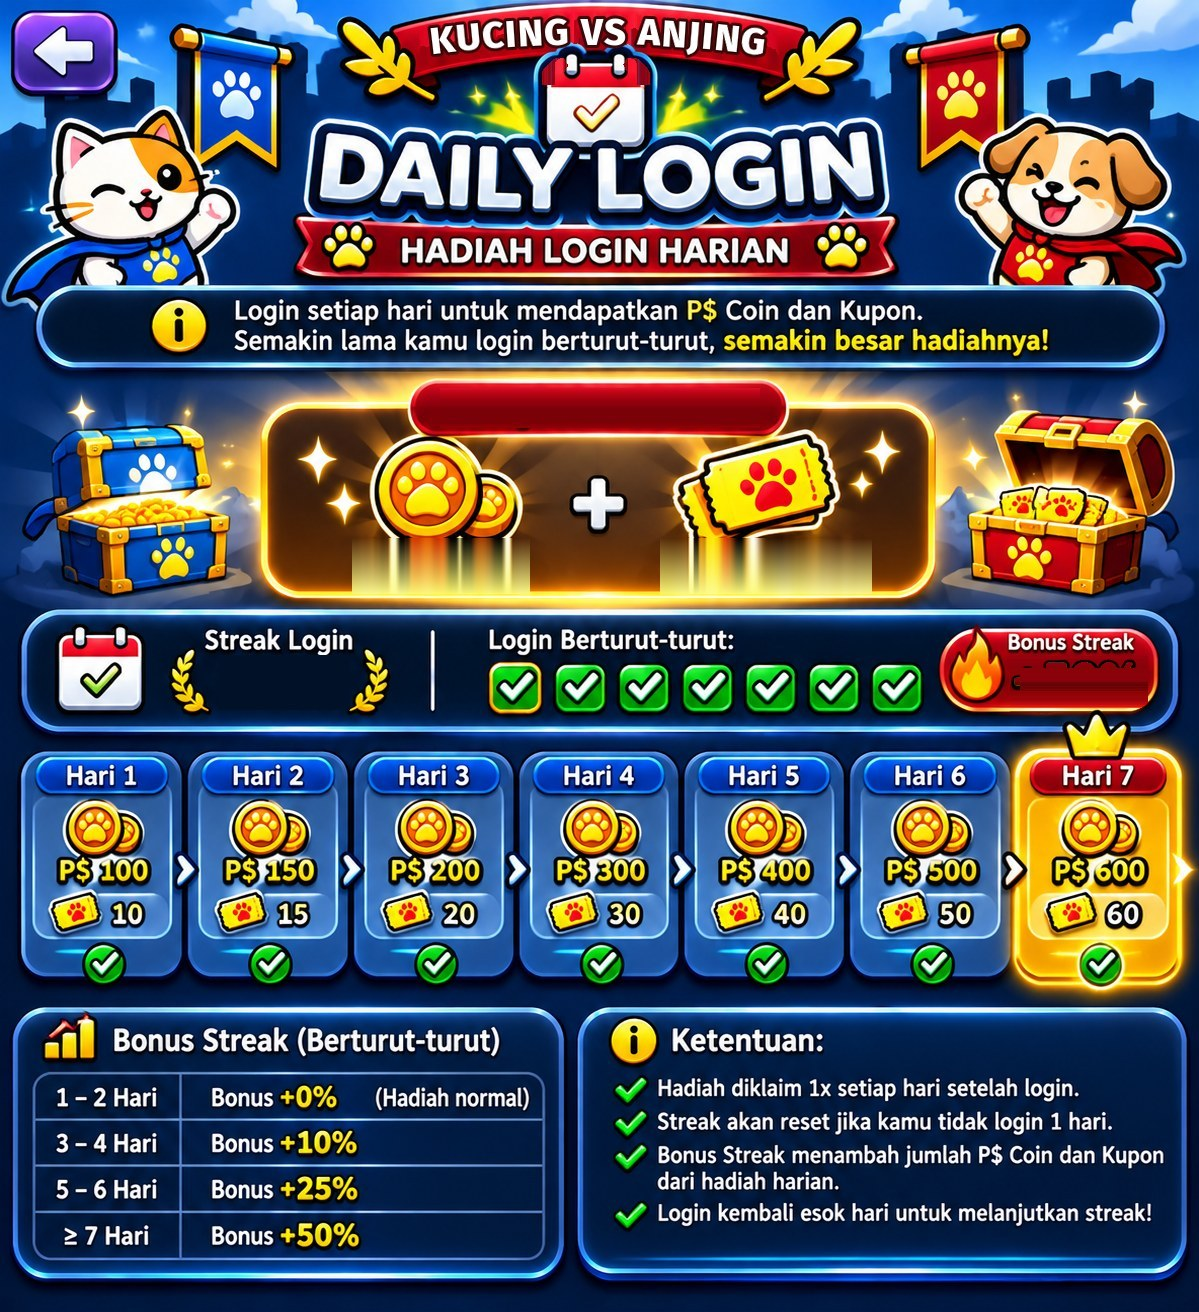
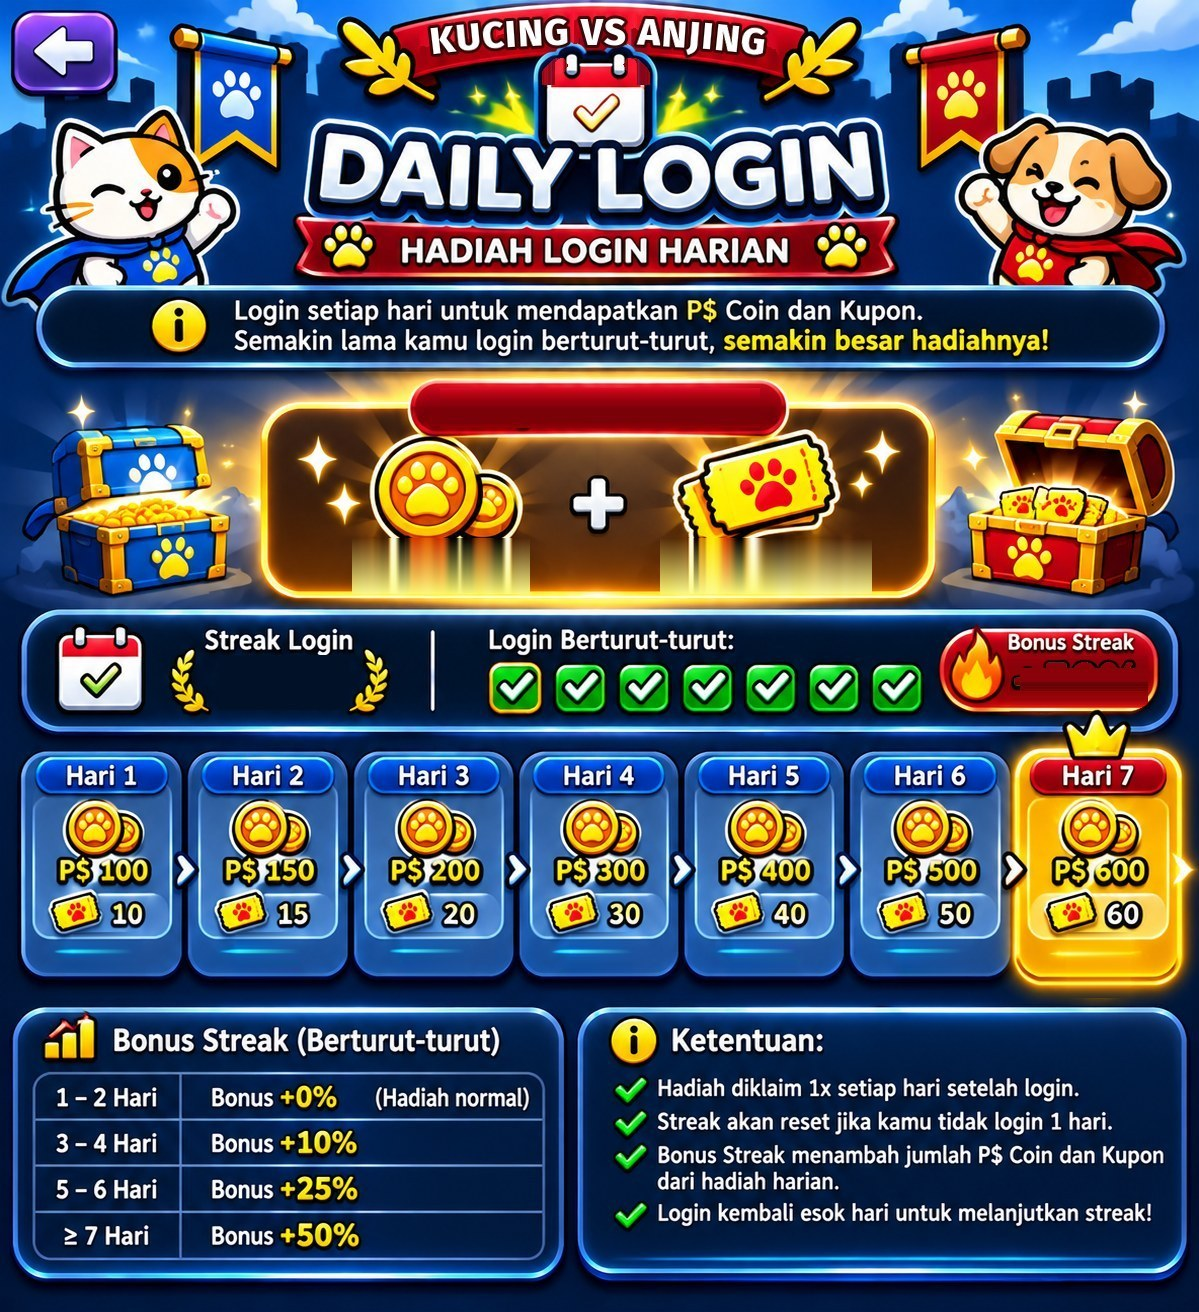
versi 44: Daily Login centang hanya setelah klaim, bayangan dihapus
Claude-Session: https://claude.ai/code/session_012X9z3fiAFZ3qgrK3AKFit9

diff --git a/index.html b/index.html
@@ -14,7 +14,7 @@ html,body{margin:0;height:100%;background:#0e1124;font-family:system-ui,-apple-s
 </head><body>
 <div id="wrap"></div>
 <div id="ttl">PETA PERANG KUCING VS ANJING</div>
-<div id="ver" style="position:fixed;left:8px;bottom:calc(env(safe-area-inset-bottom) + 10px);z-index:30;font:600 11px system-ui;color:#fff;background:#000;padding:2px 8px;border-radius:8px;pointer-events:none">versi 43 · 23 Nov 08:30</div><div id="hint">1 jari: geser peta · 2 jari: cubit zoom & putar</div>
+<div id="ver" style="position:fixed;left:8px;bottom:calc(env(safe-area-inset-bottom) + 10px);z-index:30;font:600 11px system-ui;color:#fff;background:#000;padding:2px 8px;border-radius:8px;pointer-events:none">versi 44 · 23 Nov 08:50</div><div id="hint">1 jari: geser peta · 2 jari: cubit zoom & putar</div>
 <div id="bar">
 <button data-v="depan" class="on">Depan</button><button data-v="jam3">Jam 3</button><button data-v="jam9">Jam 9</button><button data-v="belakang">Belakang</button><button data-v="atas">Atas</button><button id="sorot">Sorot Pasukan</button><button id="auto">Putar otomatis</button><button id="waktu">Waktu: Jam asli</button>
 </div>
@@ -655,10 +655,10 @@ const close=()=>d.classList.remove('on');bh.onclick=e=>{e.stopPropagation();open
 
 /* DAILY-LOGIN */
 {const DL={"lbl":[36.7,29.57,26.69,3.05],"coin":[29.61,40.78,14.43,4.34],"kup":[55.21,40.78,17.35,4.34],"st":[18.18,49.92,11.01,4.19],"bn":[85.07,50.91,10.18,3.05],"back":[1.25,0.91,8.34,5.95],"ck":[[41.03,50.76,4.67,3.35],[46.21,50.76,4.67,3.35],[51.38,50.76,4.67,3.35],[56.55,50.76,4.67,3.35],[61.8,50.76,4.67,3.35],[66.97,50.76,4.67,3.35],[72.14,50.76,4.67,3.35]],"card":[[2.09,57.55,12.93,17.91],[15.85,57.55,12.93,17.91],[29.69,57.55,12.93,17.91],[43.45,57.55,12.93,17.91],[57.3,57.55,12.93,17.91],[71.06,57.55,12.93,17.91],[84.9,57.55,12.93,17.91]]},AR=1199/1312,CO=[100,150,200,300,400,500,600],KU=[10,15,20,30,40,50,60];
-const st=document.createElement('style');st.textContent='#dli{position:fixed;right:8px;z-index:16;width:68px;height:68px;cursor:pointer;animation:dlb 1.6s ease-in-out infinite;filter:drop-shadow(0 4px 8px rgba(0,0,0,.5))}#dli img{width:100%;height:100%;display:block}#dli:after{content:"";position:absolute;inset:6%;border-radius:22%;background:linear-gradient(115deg,transparent 30%,rgba(255,255,255,.85) 48%,transparent 62%);background-size:300% 100%;animation:dls 2.4s linear infinite;mix-blend-mode:screen;pointer-events:none}#dli b{position:absolute;top:-4px;right:-4px;width:18px;height:18px;border-radius:50%;background:#e01b1b;border:2px solid #fff;display:none}#dli.new b{display:block}@keyframes dlb{0%,100%{transform:translateY(0)}50%{transform:translateY(-8px)}}@keyframes dls{0%{background-position:150% 0}100%{background-position:-150% 0}}#dl{font-family:system-ui,-apple-system,"Segoe UI",Roboto,sans-serif;position:fixed;inset:0;background:rgba(8,12,28,.65);-webkit-backdrop-filter:blur(6px);backdrop-filter:blur(6px);z-index:64;display:none;align-items:center;justify-content:center}#dl.on{display:flex}#dlw{display:flex;flex-direction:column;align-items:center;gap:8px}#dlb{position:relative;flex:none;border-radius:18px;overflow:hidden;box-shadow:0 14px 40px rgba(0,0,0,.7);container-type:inline-size}#dlb>img{width:100%;height:100%;display:block}#dlb .v{position:absolute;display:flex;align-items:center;justify-content:center;color:#fff;font-weight:900;white-space:nowrap;pointer-events:none}#dlb .g{color:#ffd23f;-webkit-text-stroke:.2cqw #5a3300;text-shadow:0 .4cqw 0 #7a4a00}#dlb .no{position:absolute;background:rgba(20,26,50,.72);border-radius:1.2cqw;pointer-events:none}#dlb .td{position:absolute;border:.7cqw solid #ffe14a;border-radius:2cqw;box-shadow:0 0 3cqw #ffd23f;pointer-events:none;animation:dlp 1s ease-in-out infinite}@keyframes dlp{50%{box-shadow:0 0 5cqw #ffd23f}}#dlbk{position:absolute;cursor:pointer}#dlk{box-sizing:border-box;padding:10px 12px;border-radius:16px;border:3px solid #fff3b0;background:linear-gradient(#ffe27a,#f2b31d);box-shadow:0 4px 0 #a86c08,0 8px 18px rgba(0,0,0,.5);color:#3a2200;font:900 16px system-ui;text-align:center;cursor:pointer}#dlk.off{filter:grayscale(1);opacity:.75}';document.head.appendChild(st);
+const st=document.createElement('style');st.textContent='#dli{position:fixed;right:8px;z-index:16;width:68px;height:68px;cursor:pointer;animation:dlb 1.6s ease-in-out infinite;filter:drop-shadow(0 4px 8px rgba(0,0,0,.5))}#dli img{width:100%;height:100%;display:block}#dli:after{content:"";position:absolute;inset:6%;border-radius:22%;background:linear-gradient(115deg,transparent 30%,rgba(255,255,255,.85) 48%,transparent 62%);background-size:300% 100%;animation:dls 2.4s linear infinite;mix-blend-mode:screen;pointer-events:none}#dli b{position:absolute;top:-4px;right:-4px;width:18px;height:18px;border-radius:50%;background:#e01b1b;border:2px solid #fff;display:none}#dli.new b{display:block}@keyframes dlb{0%,100%{transform:translateY(0)}50%{transform:translateY(-8px)}}@keyframes dls{0%{background-position:150% 0}100%{background-position:-150% 0}}#dl{font-family:system-ui,-apple-system,"Segoe UI",Roboto,sans-serif;position:fixed;inset:0;background:rgba(8,12,28,.65);-webkit-backdrop-filter:blur(6px);backdrop-filter:blur(6px);z-index:64;display:none;align-items:center;justify-content:center}#dl.on{display:flex}#dlw{display:flex;flex-direction:column;align-items:center;gap:8px}#dlb{position:relative;flex:none;border-radius:18px;overflow:hidden;box-shadow:0 14px 40px rgba(0,0,0,.7);container-type:inline-size}#dlb>img{width:100%;height:100%;display:block}#dlb .v{position:absolute;display:flex;align-items:center;justify-content:center;color:#fff;font-weight:900;white-space:nowrap;pointer-events:none}#dlb .g{color:#ffd23f;-webkit-text-stroke:.2cqw #5a3300;text-shadow:0 .4cqw 0 #7a4a00}#dlb .no{position:absolute;background:linear-gradient(#3a4370,#262d52);border:.3cqw solid #5a6496;border-radius:1.2cqw;pointer-events:none;box-sizing:border-box}#dlb .ok{position:absolute;display:flex;align-items:center;justify-content:center;border-radius:50%;background:radial-gradient(circle at 35% 30%,#7dff8a,#1fae3c 60%,#0b7a24);border:.4cqw solid #fff;box-sizing:border-box;color:#fff;font:900 3.4cqw Arial,sans-serif;box-shadow:0 .4cqw 1cqw rgba(0,0,0,.5);pointer-events:none;aspect-ratio:1}#dlb .td{position:absolute;border:.7cqw solid #ffe14a;border-radius:2cqw;box-shadow:0 0 3cqw #ffd23f;pointer-events:none;animation:dlp 1s ease-in-out infinite}@keyframes dlp{50%{box-shadow:0 0 5cqw #ffd23f}}#dlbk{position:absolute;cursor:pointer}#dlk{box-sizing:border-box;padding:10px 12px;border-radius:16px;border:3px solid #fff3b0;background:linear-gradient(#ffe27a,#f2b31d);box-shadow:0 4px 0 #a86c08,0 8px 18px rgba(0,0,0,.5);color:#3a2200;font:900 16px system-ui;text-align:center;cursor:pointer}#dlk.off{filter:grayscale(1);opacity:.75}';document.head.appendChild(st);
 const ic=document.createElement('div');ic.id='dli';ic.innerHTML='<img src="daily_icon.png?v=43" alt="Daily Login"><b></b>';document.body.appendChild(ic);
 const pos=()=>{const h=document.getElementById('hud');ic.style.top=((h?h.getBoundingClientRect().bottom:120)+10)+'px';};setInterval(pos,1000);pos();
-const d=document.createElement('div');d.id='dl';d.innerHTML='<div id="dlw"><div id="dlb"><img src="daily.jpg?v=43"><div id="dlh"></div><div id="dlbk"></div></div><div id="dlk"></div></div>';document.body.appendChild(d);
+const d=document.createElement('div');d.id='dl';d.innerHTML='<div id="dlw"><div id="dlb"><img src="daily.jpg?v=44"><div id="dlh"></div><div id="dlbk"></div></div><div id="dlk"></div></div>';document.body.appendChild(d);
 const b=document.getElementById('dlb'),H=document.getElementById('dlh'),K=document.getElementById('dlk');let S=null,busy=false;
 const P=(e,[l,t,w,h])=>Object.assign(e.style,{left:l+'%',top:t+'%',width:w+'%',height:h+'%'});const f=n=>Number(n||0).toLocaleString('id-ID');
 const bon=s=>s>=7?.5:s>=5?.25:s>=3?.1:0;
@@ -668,7 +668,7 @@ function render(){H.innerHTML='';P(document.getElementById('dlbk'),DL.back);cons
  const be=tx(DL.bn,'+'+Math.round(bb*100)+'%','',4.4);be.style.background='#c8141c';be.style.borderRadius='2cqw';
  const got=done?Math.min(st0,7):Math.min(st0,7);
  DL.ck.forEach((r,i)=>{if(i>=got){const e=document.createElement('div');e.className='no';P(e,r);H.appendChild(e);}});
- DL.card.forEach((r,i)=>{if(i===di){const e=document.createElement('div');e.className='td';P(e,r);H.appendChild(e);}else if(i>=got&&i!==di){const e=document.createElement('div');e.className='no';const [l,t,w,h]=r;P(e,[l+.6,t+16.3,w-1.2,2.8]);H.appendChild(e);}});
+ DL.card.forEach((r,i)=>{const [l,t,w,h]=r;if(i===di){const e=document.createElement('div');e.className='td';P(e,r);H.appendChild(e);}if(i<got){const e=document.createElement('div');e.className='ok';P(e,[l+w/2-2.4,t+h-4.4,4.8,4.4]);e.textContent='✓';H.appendChild(e);}});
  K.className=done?'off':'';K.innerHTML=done?'✔ Sudah diklaim hari ini<br><small style="font-size:13px;font-weight:700">Kembali besok untuk lanjut streak</small>':'🎁 KLAIM HADIAH · P$ '+f(c)+' + '+f(k)+' Kupon';
  ic.classList.toggle('new',!!S&&!done);}
 K.onclick=async()=>{if(!S||S.login_klaim_hari_ini||busy)return;let t=null;try{t=localStorage.getItem('kva_token')}catch(_){}if(!t)return;busy=true;
